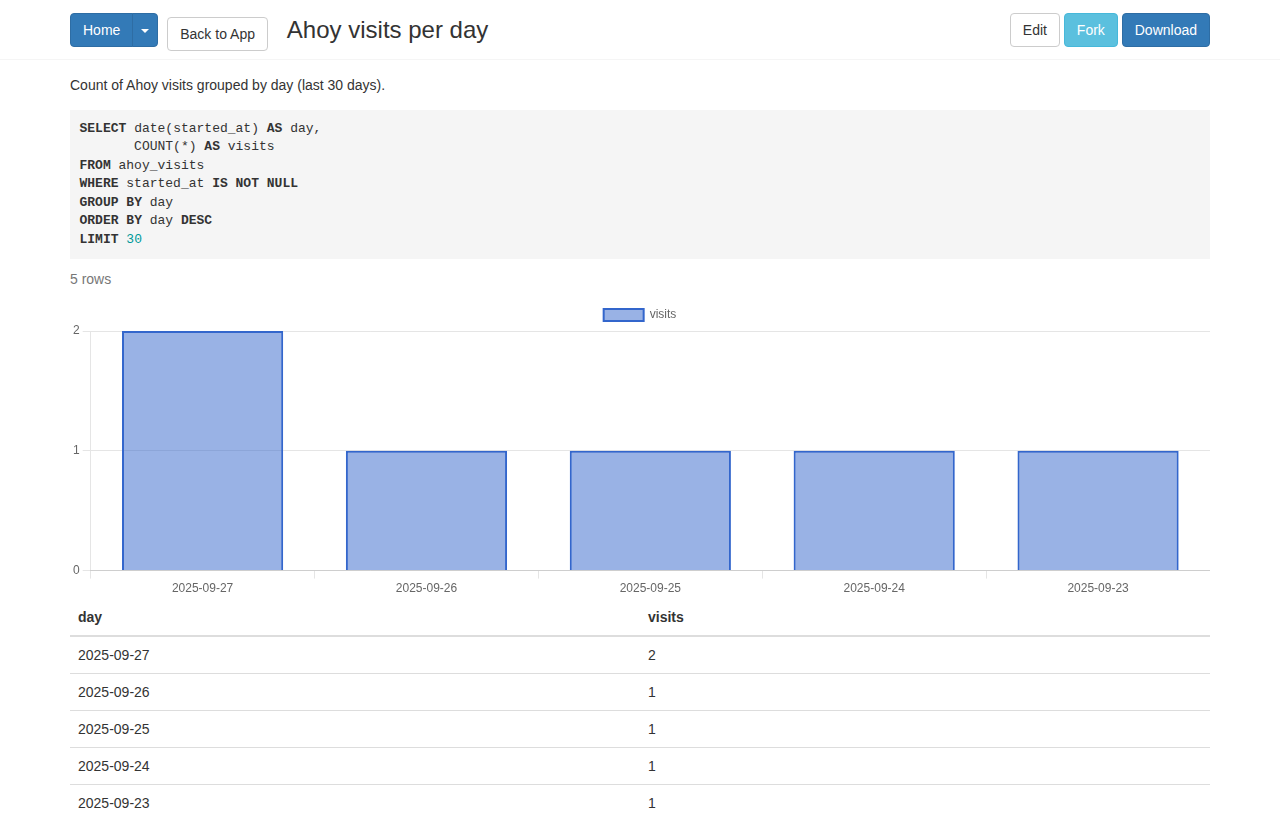
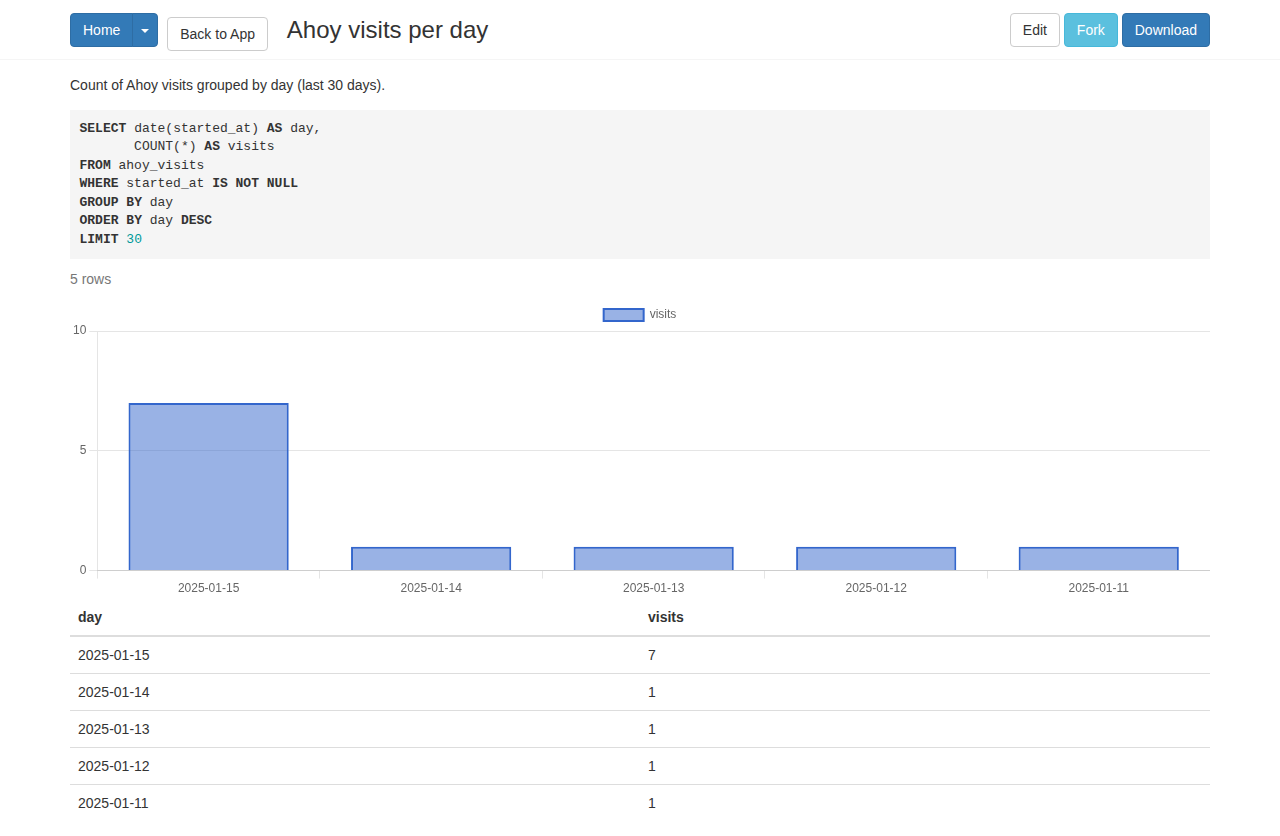
FIX: stabilize test time and yarn install

diff --git a/test/test_helper.rb b/test/test_helper.rb
@@ -6,7 +6,63 @@ Coverage.start
 require 'ostruct'
 require 'pathname'
 require 'logger'
+require 'time'
+require 'date'
 require 'active_support/core_ext/object/blank'
+
+ENV['TEST_FIXED_TIME'] ||= '2025-01-15 12:00:00 UTC'
+
+module FixedTestTime
+  module_function
+
+  DEFAULT_TIME = Time.utc(2025, 1, 15, 12, 0, 0)
+
+  def value
+    @value ||= parse_time(ENV.fetch('TEST_FIXED_TIME', DEFAULT_TIME.iso8601))
+  end
+
+  def parse_time(timestamp)
+    DateTime.parse(timestamp).to_time.utc
+  rescue ArgumentError
+    DEFAULT_TIME
+  end
+end
+
+class << Time
+  unless method_defined?(:now_without_fixed_test_time)
+    alias_method :now_without_fixed_test_time, :now
+  end
+
+  def now
+    FixedTestTime.value
+  end
+
+  def current
+    FixedTestTime.value
+  end
+end
+
+class << Date
+  unless method_defined?(:today_without_fixed_test_time)
+    alias_method :today_without_fixed_test_time, :today
+  end
+
+  def today
+    FixedTestTime.value.to_date
+  end
+end
+
+class << DateTime
+  unless method_defined?(:now_without_fixed_test_time)
+    alias_method :now_without_fixed_test_time, :now
+  end
+
+  def now
+    FixedTestTime.value.to_datetime
+  end
+
+  alias_method :current, :now
+end
 
 module ActiveRecord
   class Base

diff --git a/config/initializers/test_fixed_time.rb b/config/initializers/test_fixed_time.rb
@@ -1,0 +1,27 @@
+# frozen_string_literal: true
+
+if Rails.env.test?
+  require 'time'
+  require 'active_support/testing/time_helpers'
+
+  helper = Object.new.extend(ActiveSupport::Testing::TimeHelpers)
+
+  fixed_time_string = ENV.fetch('TEST_FIXED_TIME', '2025-01-15 12:00:00 UTC')
+
+  fixed_time = begin
+    zone = Time.zone || ActiveSupport::TimeZone['UTC']
+    zone&.parse(fixed_time_string)
+  rescue ArgumentError
+    nil
+  end
+
+  fixed_time ||= begin
+    Time.parse(fixed_time_string)
+  rescue ArgumentError
+    Time.utc(2025, 1, 15, 12, 0, 0)
+  end
+
+  helper.travel_to(fixed_time)
+
+  at_exit { helper.travel_back }
+end

diff --git a/test/run_tests.rb b/test/run_tests.rb
@@ -10,10 +10,13 @@ def capture_app_screenshot(root, filename:, seed_script: nil, path: '/', wait_se
   screenshots_dir = File.join(root, 'screenshots')
   FileUtils.mkdir_p(screenshots_dir)
 
+  fixed_time = ENV.fetch('TEST_FIXED_TIME', '2025-01-15 12:00:00 UTC')
+
   env = {
     'RAILS_ENV' => 'test',
     'SECRET_KEY_BASE' => ENV.fetch('SECRET_KEY_BASE', 'screenshot-secret'),
-    'RAILS_LOG_TO_STDOUT' => 'false'
+    'RAILS_LOG_TO_STDOUT' => 'false',
+    'TEST_FIXED_TIME' => fixed_time
   }
 
   yarn_args = ['yarn', 'install', '--frozen-lockfile']

diff --git a/TODO.md b/TODO.md
@@ -1,7 +1,6 @@
 # Project TODOs
 
 ## Incomplete
-[ ] investigate yarn warnings about bare-* engine requirements when installing puppeteer
 [ ] add Blazer dashboards to graph Ahoy data
 [ ] when naming trees we should use lat/long data to lookup nearby landmarks. also save those details to the db for later use
 [ ] when naming trees we should use lat/long data to lookup nearby streets. also save those details to the db for later use
@@ -19,6 +18,7 @@
 [ ] custom tree images - trees have images that start as the default logo, but users with the right tags could take a selfie of the tree and update it's image
 
 ## Completed
+[x] investigate yarn warnings about bare-* engine requirements when installing puppeteer
 [x] add Ahoy for analytics tracking
 [x] when naming trees we should use lat/long data to lookup suburb and relative location in it. also save those details to the db for later use
 [x] add screenshots to specs for visual validation

diff --git a/CHANGELOG.md b/CHANGELOG.md
@@ -2,6 +2,9 @@
 
 This log summarizes notable updates based on commit history and completed TODO items.
 
+## 2025-06-25
+- Locked tests and screenshot tooling to a fixed datetime and suppressed Puppeteer bare-engine warnings
+
 ## 2025-06-24
 - Added suburb name to tree naming facts so prompts include location context
 
